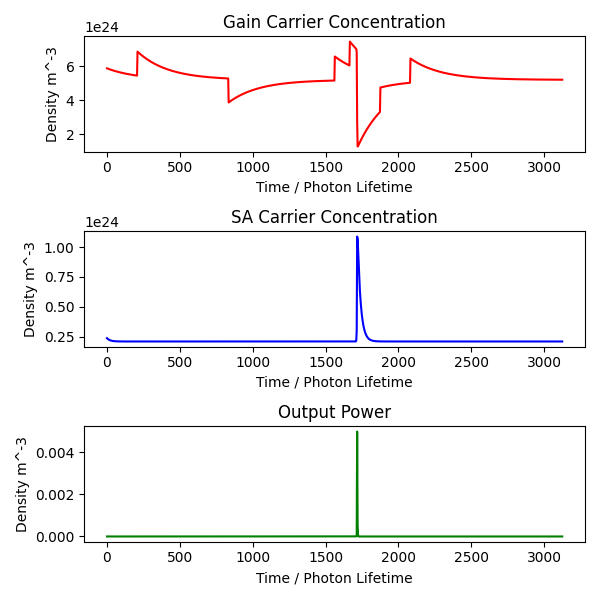
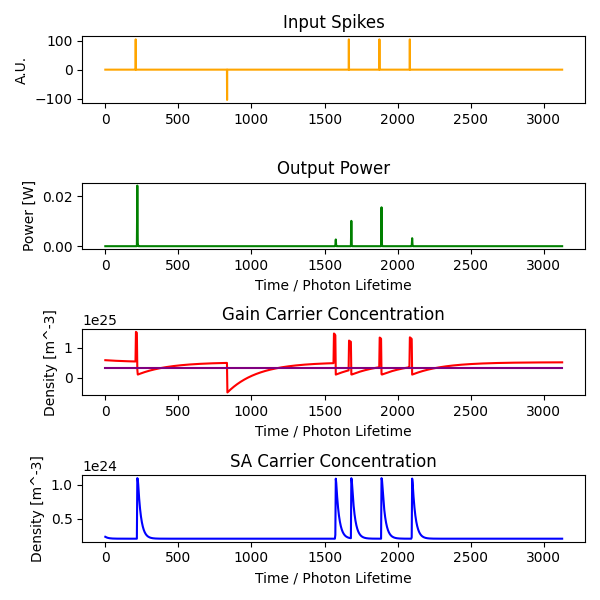
setup for network architecture

diff --git a/laser/vcsel_rate.py b/laser/vcsel_rate.py
@@ -7,7 +7,7 @@ import matplotlib.pyplot as plt
 import diffrax
 from diffrax import diffeqsolve, ODETerm, SaveAt
 from yamada import Yamada
-
+from tqdm import tqdm
 def default_vcsel_parameters():
     """
     VCSEL parameters copied from the paper
@@ -31,11 +31,7 @@ def default_vcsel_parameters():
         2e-3, # A gain biasing current [A]
         0, # S absorber biasing current [A]
         )
-class VCSEL(Yamada):
-    """
-    Implements a VCSEL specific simulation model based off the variable conversions
-    """
-    def inputs(vcsel_parameters, inputs):
+def format_inputs(vcsel_parameters, inputs):
         """
         Format optical and electrical inputs to be passed onto the rest of the network
         optical and electrical inputs should be lists of (float, float), but will be concatenated into one list
@@ -59,41 +55,46 @@ class VCSEL(Yamada):
         # TODO optical input component is coupled with gain!
         # reformat this class to support that
         new_inputs = []
-        scaling = (tau_A*g_a)/(1.6e-19*Va)
+        scaling = (tau_ph*tau_ph*gamma_a*g_a)/(1.6e-19*Va)
         for pair in inputs:
             new_inputs.append((scaling*pair[0], pair[1]))
         return new_inputs
-    def get_yamada(vcsel_parameters, spikes = [(0, 0)]):
-        """
-        Create Yamada Parameters given the VCSEL parameters
-        """
-        tau_A = vcsel_parameters[5]
-        tau_S = vcsel_parameters[6]
-        tau_ph = vcsel_parameters[7]
-        gamma_a = vcsel_parameters[3]
-        gamma_s = vcsel_parameters[4]
-        g_a = vcsel_parameters[8]
-        g_s = vcsel_parameters[9]
-        I_a = vcsel_parameters[-2]
-        I_s = vcsel_parameters[-1]
-        Va = vcsel_parameters[1]
-        Vs = vcsel_parameters[2]
-        n_oa = vcsel_parameters[10]
-        n_os = vcsel_parameters[11]
-        beta = vcsel_parameters[13]
-        Br = vcsel_parameters[12]
-        # define conversion parameters
-        A = tau_A * tau_ph * gamma_a * g_a * (I_a/(1.6e-19*Va) - n_oa/tau_A)
-        B = tau_S * tau_ph * gamma_s * g_s * (n_os/tau_S - I_s/(1.6e-19*Vs))
-        a = (tau_S * gamma_s * g_s * Va) / (tau_A * gamma_a * g_a * Vs)
-        y_G = tau_ph/tau_A
-        y_Q = tau_ph/tau_S
-        y_I = 1
-        # epsilon_F approximated to most significant value
-        epsilon_F = 8.35e-35
-        # spikes (ASSUME PROCESSED)
-        return A, B, a, y_G, y_Q, y_I, epsilon_F, spikes
-    
+def get_vcsel_yamada_model(vcsel_parameters, spikes = [(0, 0)]):
+    """
+    Create Yamada Parameters given the VCSEL parameters
+    """
+    tau_A = vcsel_parameters[5]
+    tau_S = vcsel_parameters[6]
+    tau_ph = vcsel_parameters[7]
+    gamma_a = vcsel_parameters[3]
+    gamma_s = vcsel_parameters[4]
+    g_a = vcsel_parameters[8]
+    g_s = vcsel_parameters[9]
+    I_a = vcsel_parameters[-2]
+    I_s = vcsel_parameters[-1]
+    Va = vcsel_parameters[1]
+    Vs = vcsel_parameters[2]
+    n_oa = vcsel_parameters[10]
+    n_os = vcsel_parameters[11]
+    beta = vcsel_parameters[13]
+    Br = vcsel_parameters[12]
+    # define conversion parameters
+    A = tau_A * tau_ph * gamma_a * g_a * (I_a/(1.6e-19*Va) - n_oa/tau_A)
+    B = tau_S * tau_ph * gamma_s * g_s * (n_os/tau_S - I_s/(1.6e-19*Vs))
+    a = (tau_S * gamma_s * g_s * Va) / (tau_A * gamma_a * g_a * Vs)
+    y_G = tau_ph/tau_A
+    y_Q = tau_ph/tau_S
+    y_I = 1
+    # epsilon_F approximated to most significant value
+    epsilon_F = 8.35e-35
+    # spikes (ASSUME PROCESSED)
+    return A, B, a, y_G, y_Q, y_I, epsilon_F, spikes
+def delta(t, radius = 0.01):        
+        return jnp.exp(-jnp.pow(t, 2)/(2*radius))
+class VCSEL(Yamada):
+    """
+    Implements a VCSEL specific simulation model based off the variable conversions
+    """
     def __init__(self, params: tuple, initial_state=(0, 0, 0), solver=diffrax.Kvaerno5(), radius=0.001):
         super().__init__(params=params, initial_state=initial_state, solver=solver, radius=radius)
         self.name = "vcsel"
@@ -135,7 +136,19 @@ class VCSEL(Yamada):
                           max_steps=100000,
                           stepsize_controller=stepsize_controller)
         self.sol = sol
-    def plot(self, vc_sel_parameters=None):
+    
+    def plot_spikes(self, times, spikes):
+        def force(t):
+            spike = 0.0
+            if (spikes and len(spikes) == 0):
+                return 0.0
+            for A, i in spikes:
+                spike += A*delta(t - i, self.spike_radius)
+            return spike
+        self.input_spikes = [] # in amps
+        for t in tqdm(times, desc="Plotting Input Graph..."):
+            self.input_spikes.append(force(t))
+    def plot(self, vc_sel_parameters=None, spikes=((0, 0)), plotting_steps=1):
         sol = self.sol
         if (vc_sel_parameters):
             tau_A = vc_sel_parameters[5]
@@ -155,21 +168,41 @@ class VCSEL(Yamada):
             Br = vc_sel_parameters[12]
             nu = vc_sel_parameters[14]
             lambda_ = vc_sel_parameters[0]
-            fig, (ax1, ax2, ax3) = plt.subplots(3, 1, figsize=(6, 6))
-            ax1.plot(sol.ts, sol.ys[0]/(tau_ph * gamma_a * g_a) + n_oa, label="Gain Carrier Concentration", color="red")
-            ax1.set_title('Gain Carrier Concentration')
-            ax1.set_xlabel('Time / Photon Lifetime')
-            ax1.set_ylabel('Density m^-3')
+            # plotting input spikes
+            min_value = float(jnp.min(sol.ts))
+            max_value = float(jnp.max(sol.ts))
+            step_size = plotting_steps
 
-            ax2.plot(sol.ts, -(sol.ys[1]/(tau_ph * gamma_s * g_s) - n_oa), label="SA Carrier Concentration", color="blue")
-            ax2.set_title('SA Carrier Concentration')
-            ax2.set_xlabel('Time / Photon Lifetime')
-            ax2.set_ylabel('Density m^-3')
-
-            ax3.plot(sol.ts, (sol.ys[2]*Va/(tau_A * gamma_a * g_a))*(nu*gamma_a*1.98e-25)/(tau_ph*lambda_), label="Laser Output Power", color="green")
-            ax3.set_title('Output Power')
+            times_step = [round(min_value + i * step_size, 2) 
+                   for i in range(int((max_value - min_value) / step_size) + 1)
+                   if min_value + i * step_size <= max_value]
+            
+            self.plot_spikes(times_step, spikes) # populate variable for spikes
+            print(times_step)
+            fig, (ax1, ax2, ax3, ax4) = plt.subplots(4, 1, figsize=(6, 6))
+            ax3.plot(sol.ts, sol.ys[0]/(tau_ph * gamma_a * g_a) + n_oa, label="Gain Carrier Concentration", color="red")
+            ax3.set_title('Gain Carrier Concentration')
             ax3.set_xlabel('Time / Photon Lifetime')
-            ax3.set_ylabel('Density m^-3')
+            ax3.set_ylabel('Density [m^-3]')
+            G_thresh_eq = (tau_S*tau_ph*gamma_a*g_a*(n_os/tau_S - I_s/(1.6e-19*Vs))) + 1
+            G_thresh_eq_to_na = G_thresh_eq/(tau_ph * gamma_a * g_a) + n_oa
+
+            ax3.plot(sol.ts, [G_thresh_eq_to_na] * len(sol.ts), label="Threshold Level", color="purple")
+
+            ax4.plot(sol.ts, -(sol.ys[1]/(tau_ph * gamma_s * g_s) - n_oa), label="SA Carrier Concentration", color="blue")
+            ax4.set_title('SA Carrier Concentration')
+            ax4.set_xlabel('Time / Photon Lifetime')
+            ax4.set_ylabel('Density [m^-3]')
+
+            ax2.plot(sol.ts, (sol.ys[2]*Va/(tau_A * gamma_a * g_a))*(nu*gamma_a*1.98e-25)/(tau_ph*lambda_), label="Laser Output Power", color="green")
+            ax2.set_title('Output Power')
+            ax2.set_xlabel('Time / Photon Lifetime')
+            ax2.set_ylabel('Power [W]')
+
+            ax1.plot(times_step, self.input_spikes, label="Laser Output Power", color="orange")
+            ax1.set_title('Input Spikes')
+            ax2.set_xlabel('Time / Photon Lifetime')
+            ax1.set_ylabel('A.U.')
 
             # Adjust layout
             plt.tight_layout()
@@ -185,26 +218,26 @@ class VCSEL(Yamada):
             plt.show()
 def experiment_1():
     # NOTE spiking power is arbitrary and unclear right now and noise is virtually ignored
-    A = 2e-15
+    A = 10
     spikes = ((A, 208), (-A, 833), (A, 1562.5), (A, 1666), (A, 1875), (A, 2083))
     # spikes = ((0, 0),)
-    output_spikes = VCSEL.inputs(default_vcsel_parameters(), spikes)
-    # print(output_spikes)
-    yamada_parameters = VCSEL.get_yamada(default_vcsel_parameters(), spikes=output_spikes)
+    output_spikes = format_inputs(default_vcsel_parameters(), spikes)
+    print(output_spikes)
+    yamada_parameters = get_vcsel_yamada_model(default_vcsel_parameters(), spikes=output_spikes)
     # print(yamada_parameters)
     laser = VCSEL(params=yamada_parameters, initial_state=(4, 3, 0.))
     laser.sim(0, 3125, .1)
-    laser.plot(default_vcsel_parameters())
+    laser.plot(default_vcsel_parameters(), spikes=output_spikes)
 def experiment_2():
-    A = 2e-15
-    spikes = ((-A, 260), (-A, 900), (-A, 1562), (A, 520), (A, 1041), (A, 1562), (A, 2083), (A, 2604), )
+    A = 6
+    spikes = ((-A, 260), (-A, 900), (-A, 1562), (-A, 2100), (-A, 2700), (A, 520), (A, 1041), (A, 1562), (A, 2020), (A, 2604))
     # spikes = ((0, 0),)
-    output_spikes = VCSEL.inputs(default_vcsel_parameters(), spikes)
+    output_spikes = format_inputs(default_vcsel_parameters(), spikes)
     # print(output_spikes)
-    yamada_parameters = VCSEL.get_yamada(default_vcsel_parameters(), spikes=output_spikes)
+    yamada_parameters = get_vcsel_yamada_model(default_vcsel_parameters(), spikes=output_spikes)
     # print(yamada_parameters)
-    laser = VCSEL(params=yamada_parameters, initial_state=(4, 3, 0.))
+    laser = VCSEL(params=yamada_parameters, initial_state=(0, 0, 0.))
     laser.sim(0, 3125, .1)
-    laser.plot(None)
+    laser.plot(default_vcsel_parameters(), spikes=output_spikes)
 if __name__ == "__main__":
     experiment_1()

diff --git a/laser/vcsel_network.py b/laser/vcsel_network.py
@@ -1,0 +1,41 @@
+from vcsel_neuron import SpikingNeuron
+from normalize_layer import Normalize
+from vcsel_rate import default_vcsel_parameters
+from vcsel_rate import format_inputs, get_vcsel_yamada_model
+class SpikingNetwork():
+    """
+    A class defining a spiking neural network.
+    """
+
+    def __init__(self):
+        self.network_layers = []
+
+    def add_input(self, neuron):
+        self.network_layers.append(neuron)
+    def forward(self, input, numerical_outputs=False):
+        forwarded_inputs = input
+        for l in self.network_layers:
+            solution = l.forward(forwarded_inputs)
+            forwarded_inputs = solution # TODO this is probably busted
+        if (numerical_outputs):
+            return forwarded_inputs.ys
+        return forwarded_inputs
+            
+def one_network():
+    DEFAULTPARAMS = default_vcsel_parameters()
+    A = 10
+    spikes = [(A, 208), (-A, 833), (A, 1562.5), (A, 1666), (A, 1875), (A, 2083)]
+    # format inputs for fun
+    test_inputs = format_inputs(DEFAULTPARAMS, spikes)
+    yamada_parameters = get_vcsel_yamada_model(DEFAULTPARAMS, spikes=test_inputs)
+
+    neuron = SpikingNeuron(yamada_parameters)
+    network = SpikingNetwork()
+    network.add_input(neuron)
+    network.add_input(Normalize(DEFAULTPARAMS))
+    network.add_input(SpikingNeuron(yamada_parameters))
+    network.add_input(Normalize(DEFAULTPARAMS))
+    outputs = network.forward(test_inputs)
+if __name__ == "__main__":
+    # test a 1 neuron network
+    one_network()

diff --git a/laser/vcsel_neuron.py b/laser/vcsel_neuron.py
@@ -1,0 +1,29 @@
+from vcsel_rate import VCSEL
+from network_layer import NetworkLayer
+class SpikingNeuron(NetworkLayer):
+    """
+    A wrapper defining a singular spiking neuron
+    """
+    def __init__(self, parameters, bias=(0, 0, 0), step_size=0.1):
+        """
+        inputs - a list of inputs that can be transferred 
+        outputs - a list of outputs that can be transferred to other spiking neurons
+        """
+        self.laser = VCSEL(params=parameters, initial_state=bias) # define a laser item
+        self.step_size = step_size
+    def _time_range(self, times, epsilon = 10):
+        """
+        given a list of times -- times
+        return (min_time - epsilon, max_time + epsilon)
+        """
+        minimum = min(times, key=lambda t: t[-1])[-1]
+        maximum = max(times, key=lambda t: t[-1])[-1]
+        return max(minimum - epsilon, 0), maximum + epsilon
+    def forward(self, X):
+        """
+        Given a list of inputs at X, run a simulation
+        """
+        start, end = self._time_range(X, epsilon=5)
+        self.laser.sim(start, end, self.step_size)
+        return self.laser.sol
+

diff --git a/laser/normalize_layer.py b/laser/normalize_layer.py
@@ -1,0 +1,18 @@
+from network_layer import NetworkLayer
+from vcsel_rate import delta, format_inputs
+
+class Normalize(NetworkLayer):
+    def __init__(self, vcsel_params):
+        self.params = vcsel_params
+    def forward(self, X, threshold = 100, A = 10.0):
+        """
+        Recieves a y's and extracts
+        """
+        intensity_output = X.ys[-1] # intensity
+        times = X.ts # time step information
+        outputs = []
+        for e, i in enumerate(intensity_output):
+            if (abs(i) > threshold):
+                outputs.append((A*(1 if i > 0 else -1), float(times[e])))
+
+        return format_inputs(self.params, outputs)

diff --git a/laser/network_layer.py b/laser/network_layer.py
@@ -1,0 +1,5 @@
+class NetworkLayer(object):
+    def __init__(self):
+        pass
+    def forward(self, X):
+        raise Exception("Not Implemented Exception")
